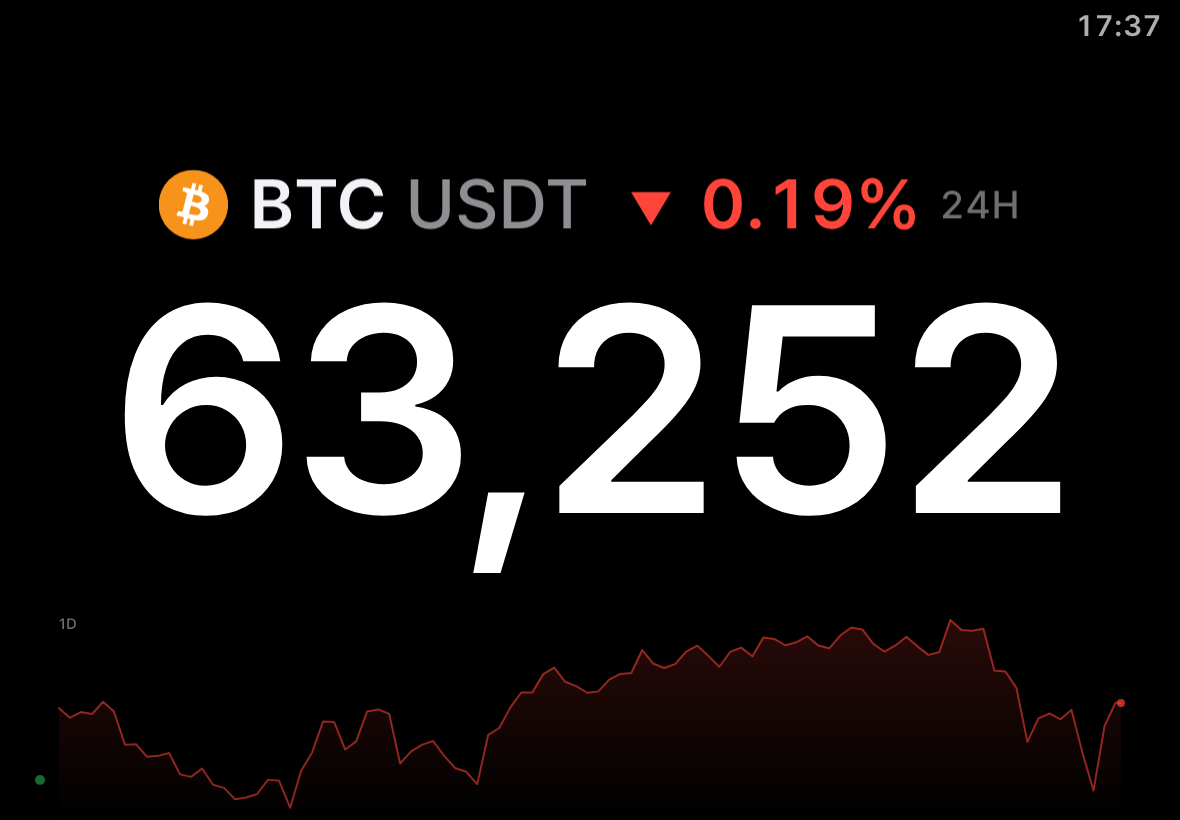
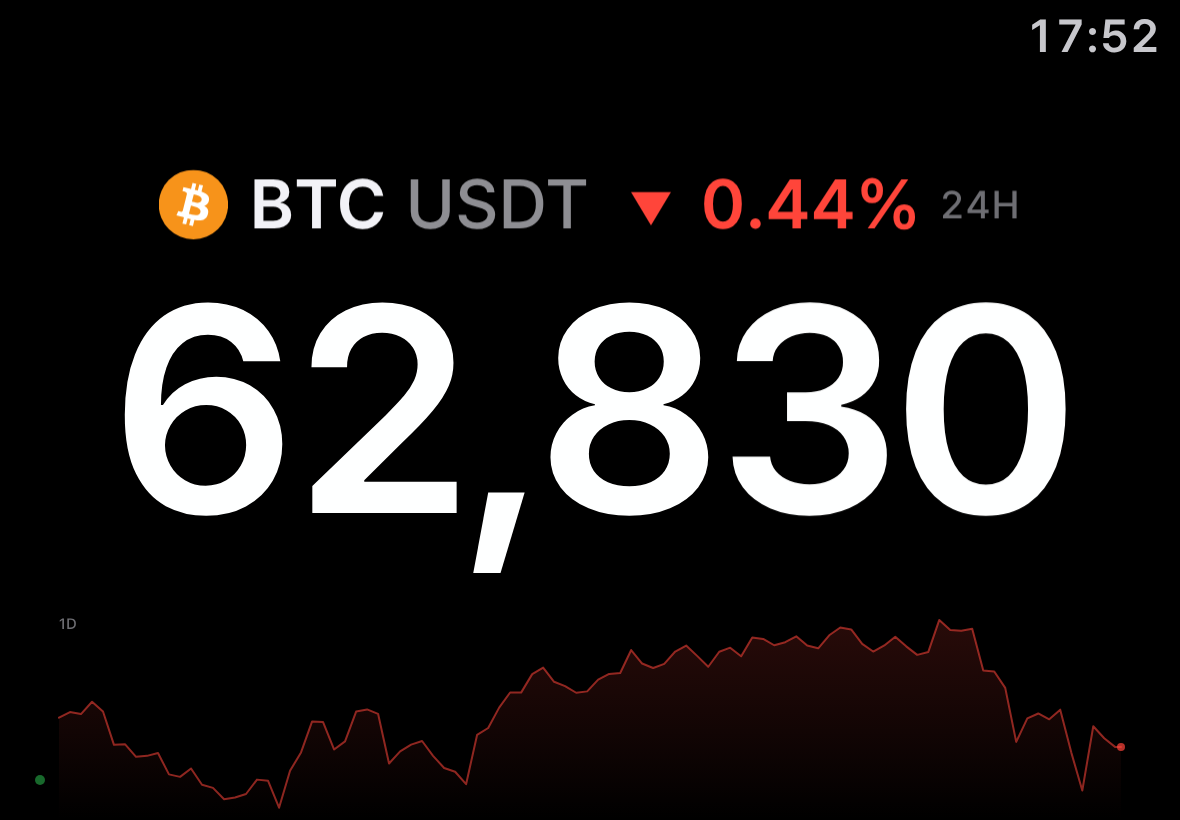
A larger clock that reads across a room; the grid makes room for it (0.28.1) (#57)
- The clock is about 1.6 times larger (5.6% of the screen's short side,
  22 to 64px; 46px on an iPad in landscape) and a lighter grey.
- In the grid the cells reach the top of the screen, and a clock that size
  came close to, or met, the top row's coin line (a phone in portrait with
  four assets). With the clock on, the grid and its chart layer now start
  below a band as tall as the clock. One asset has room enough above.
- The clock scenario checks that every coin line is below the clock.
  Guide, development notes and screenshots follow.

Claude-Session: https://claude.ai/code/session_014Sd3YL2WJ32HMbCc4VV95J

diff --git a/tests/e2e/run.js b/tests/e2e/run.js
@@ -1274,9 +1274,20 @@ async function clockShown(browser, base) {
   assert.equal((await saved(page)).clock, false);
   await page.locator('#admin-clock').click();
   assert.equal(await text(page, '#clock'), '14:33');
+  await page.keyboard.press('Escape');
+  // In the grid the cells start below a band as tall as the clock: no coin line meets it, and the charts start with the cells.
+  const grid = await context.newPage(); const gridProblems = watch(grid);
+  await grid.addInitScript(() => localStorage.setItem('coinboard-settings', JSON.stringify({ assets: [{ currency: 'KRW', ticker: 'BTC' }, { currency: 'KRW', ticker: 'ETH' }, { currency: 'USDT', ticker: 'BTC' }, { currency: 'USDT', ticker: 'ETH' }], clock: true })));
+  await grid.goto(base);
+  await grid.waitForFunction(() => document.querySelectorAll('.cell .price').length === 4 && [...document.querySelectorAll('.cell .price')].every(price => price.textContent !== '—'));
+  assert.ok(await grid.evaluate(() => {
+    const clock = document.getElementById('clock').getBoundingClientRect(), first = document.querySelector('.cell').getBoundingClientRect();
+    return first.top >= clock.bottom && [...document.querySelectorAll('.cell-head')].every(head => head.getBoundingClientRect().top > clock.bottom);
+  }), 'the grid starts below the clock');
+  assert.deepEqual(gridProblems, []);
   assert.deepEqual(problems, []);
   await context.close();
-  console.log('PASS clock: the time in the top-right corner, from the device clock, renewed on the minute, floating with the board, switched off and on in settings');
+  console.log('PASS clock: the time in the top-right corner, from the device clock, renewed on the minute, floating with the board, the grid starting below it, switched off and on in settings');
 }
 
 async function swipeBrightness(browser, base) {

diff --git a/src/app.css b/src/app.css
@@ -121,12 +121,19 @@ body {
 #stage { position: fixed; inset: var(--safe-top) var(--safe-right) var(--safe-bottom) var(--safe-left); display: flex; justify-content: center; align-items: center; overflow: hidden; }
 /* The clock: the top-right corner of the board, in a quiet grey that still
    reads across a room. Its size follows the screen's short side. */
+#stage { --clock-size: clamp(22px, 5.6vmin, 64px); --clock-top: 1.6vmin; }
 #clock {
-  position: absolute; top: 1.4vmin; right: 2.2vmin; z-index: 2;
-  font-size: clamp(17px, 3.6vmin, 40px); font-weight: 600; line-height: 1; letter-spacing: 0.02em;
-  font-variant-numeric: tabular-nums; color: #aeaeb2;
+  position: absolute; top: var(--clock-top); right: 2.4vmin; z-index: 2;
+  font-size: var(--clock-size); font-weight: 600; line-height: 1; letter-spacing: 0.02em;
+  font-variant-numeric: tabular-nums; color: #c7c7cc;
   transition: transform 60s linear; pointer-events: none;
 }
+/* In the grid the cells reach the top of the screen, so with the clock on
+   they start below a band as tall as the clock, and its top row's coin
+   line never meets it. (One asset has room enough above its coin line.) */
+#stage.clock-band { --clock-band: calc(var(--clock-top) * 2 + var(--clock-size)); }
+#stage.clock-band #container.is-grid { box-sizing: border-box; padding-top: var(--clock-band); }
+#stage.clock-band #chart-grid { top: var(--clock-band); }
 /* The brightness veil (PriceBoard.svelte): on top of the board, under the controls. */
 #dim { position: absolute; inset: 0; z-index: 10; background: #000; pointer-events: none; will-change: opacity; }
 /* Burn-in protection: the board floats slowly towards a new spot every minute. */

diff --git a/src/components/PriceBoard.svelte b/src/components/PriceBoard.svelte
@@ -191,7 +191,7 @@
     return () => { for (const element of watched) priceObserver.unobserve(element); };
   });
   // Another layout (one asset or a grid, or another count): measure once it is drawn.
-  $effect(() => { assets.length; grid; layout.rows; layout.columns; settings.chart; flushed().then(() => { fit(); fitPrice(); }); });
+  $effect(() => { assets.length; grid; layout.rows; layout.columns; settings.chart; settings.clock; flushed().then(() => { fit(); fitPrice(); }); });
   onMount(() => {
     const boardObserver = new ResizeObserver(fit);
     boardObserver.observe(container);
@@ -229,7 +229,7 @@
   });
 </script>
 
-<div id="stage">
+<div id="stage" class:clock-band={grid && settings.clock}>
   <!-- The charts, held still behind the floating board: one across the lower
        screen, or one in the lower part of each grid cell. -->
   {#if settings.chart !== 'off'}

diff --git a/docs/guide.ko.md b/docs/guide.ko.md
@@ -162,7 +162,7 @@ Coinboard는 코인 시세를 크게 띄워 두는 전광판입니다. 아이패
 
 **그래프**: 기간 동안의 가격을 화면(여러 자산이면 칸) 아래쪽 배경에 옅은 선과 채움으로 그립니다. 가격 글자를 가리지 않도록 가격 아래쪽에 깔립니다. **끔**, **15분**, **1시간**, **1일**(기본), **1주**, **1달** 중에서 고릅니다. 거래소의 과거 시세(봉)로 그리고 마지막 점은 실시간 가격입니다. 색은 위의 등락률과 같습니다(등락 색 설정을 따름). 그래프 끝의 작은 점이 실시간 가격이고, 가격이 바뀔 때마다 이 점에서 파동이 퍼집니다. 많이 움직일수록 크고 오래 퍼집니다. 그래프 모양과 등락률의 기준 시점이 조금 달라도 색이 서로 어긋나지 않습니다. 전광판에는 기간이 그래프 왼쪽 위에 `15M`, `1H`, `1D`, `7D`, `30D`로 적힙니다. 업비트·빗썸의 등락률은 전일 종가 대비이고 `1D` 그래프는 최근 24시간이라, 둘의 방향이 다를 수 있습니다. 과거 시세를 받을 수 없는 경우(차단 지역의 바이낸스 선물·바이비트 등)에는 그래프가 나오지 않습니다. 코인원은 과거 시세를 웹페이지에 내주지 않아 그래프가 없습니다. 업비트는 브라우저의 요청을 10초에 한 번만 받기 때문에, 업비트 그래프는 시세가 뜬 뒤 10초 남짓 간격으로 하나씩 나타납니다.
 
-**시계**: 전광판 오른쪽 위 구석에 지금 시각을 `14:32`처럼 24시간제로 작게 보여 줍니다(기기 시계와 시간대를 따름). 1분마다 바뀌고, 번인 방지가 켜져 있으면 전광판과 함께 조금씩 움직이며, 밝기를 낮추면 함께 어두워집니다. 기본으로 켜져 있고, 여기서 끌 수 있습니다.
+**시계**: 전광판 오른쪽 위 구석에 지금 시각을 `14:32`처럼 24시간제로 멀리서도 읽히는 크기로 보여 줍니다(기기 시계와 시간대를 따름). 여러 자산을 띄우면 칸들이 시계 아래에서 시작해 겹치지 않습니다. 1분마다 바뀌고, 번인 방지가 켜져 있으면 전광판과 함께 조금씩 움직이며, 밝기를 낮추면 함께 어두워집니다. 기본으로 켜져 있고, 여기서 끌 수 있습니다.
 
 **등락 색**: 실제 색으로 그린 견본 두 개 중에서 누릅니다. `초록 · 빨강`(상승 초록, 하락 빨강) 또는 한국식 `빨강 · 파랑`(상승 빨강, 하락 파랑).
 

diff --git a/docs/development.md b/docs/development.md
@@ -44,7 +44,7 @@ Svelte 5 and Vite. It is a single page, so there is no SvelteKit.
 | `src/lib/pace.js` | Spacing of requests to an exchange (shared by price connections and coin lists) |
 | `src/lib/steady.js` | One three-second beat for the whole board |
 | `src/lib/history.js` | Past prices for the line chart: the period's candle size, asking each exchange (`candles` in its definition) in turn with its price connection (the pacer: Upbit refuses a browser's second request within 10 seconds, candles included), at most every 10 minutes; `extend` carries a chart along with the live price in between |
-| Clock (`#clock` in `PriceBoard.svelte`) | The time in the top-right corner: the device's clock and time zone, 24-hour, renewed on the minute. It takes the board's float and sits under the brightness veil. Setting `clock` (on by default) |
+| Clock (`#clock` in `PriceBoard.svelte`) | The time in the top-right corner: the device's clock and time zone, 24-hour, renewed on the minute. It takes the board's float and sits under the brightness veil. Its size is 5.6% of the screen's short side (22-64px). In the grid, cells and the chart layer start below a band as tall as the clock (`--clock-band`). Setting `clock` (on by default) |
 | `src/lib/swipe-brightness.js` | Brightness by swiping: one finger drawn up brightens, down dims (60% of the screen's height is the whole 10-100% range, in steps of 5), shown as a sun and the level on a soft shade in the middle (`#brightness-hud`, not dimmed with the board, and covering nothing else, so the board shows the brightness it will keep). It starts after 8px, and not for a mostly sideways drag; a second finger or a cancelled touch puts the brightness back; a drag that starts on the controls or the panel is not one. Zoom is refused with `touch-action: none` (the panel `pan-y`), a `user-scalable=no` viewport, and iOS's `gesturestart` refused. Brightness itself is the opacity of a black veil over the board (`#dim`), not a filter, so changing it redraws nothing |
 | `src/components/Spark.svelte` | The line chart behind the lower board |
 | `src/lib/move.js` | The size of a price move (faint, normal, full tint) |

diff --git a/docs/guide.md b/docs/guide.md
@@ -162,7 +162,7 @@ Switched off, the board looks as it always did.
 
 **Chart**: the price over a period, as a faint line and fill across the lower part of the screen (of each cell, with several assets), below the price so as not to cover it: **Off**, **15m**, **1h**, **1d** (the default), **1w** or **1mo**. It is drawn from the exchange's own candles and ends at the live price; it takes the color of the change above it (in the up/down colors chosen), and a small point at its end marks the live price, sending out a ring each time the price changes, wider and longer the bigger the move; so the two never disagree even where the chart's period and the change's reference differ a little. The board writes the period at the chart's top left: `15M`, `1H`, `1D`, `7D`, `30D`. On Upbit and Bithumb the change is against the previous day's close while a `1D` chart covers the last 24 hours, so the two can point different ways. Where an exchange's past prices cannot be had (Binance futures or Bybit in a restricted region), its chart is simply not shown. Coinone does not give web pages its past prices, so its coins have no chart. Upbit lets a browser ask it something only once every ten seconds, so Upbit charts appear one by one, about ten seconds apart, after the prices.
 
-**Clock**: the time in the board's top-right corner, small, in 24-hour form (`14:32`), from the device's own clock and time zone. It changes on the minute, floats with the board when burn-in protection is on, and dims with it. On by default; switch it off here.
+**Clock**: the time in the board's top-right corner, in 24-hour form (`14:32`), large enough to read across a room, from the device's own clock and time zone. With several assets the cells start below it. It changes on the minute, floats with the board when burn-in protection is on, and dims with it. On by default; switch it off here.
 
 **Up/Down Colors**: two samples drawn in their own colors: **Green · Red** (up green, down red) or the Korean convention **Red · Blue** (up red, down blue).
 
